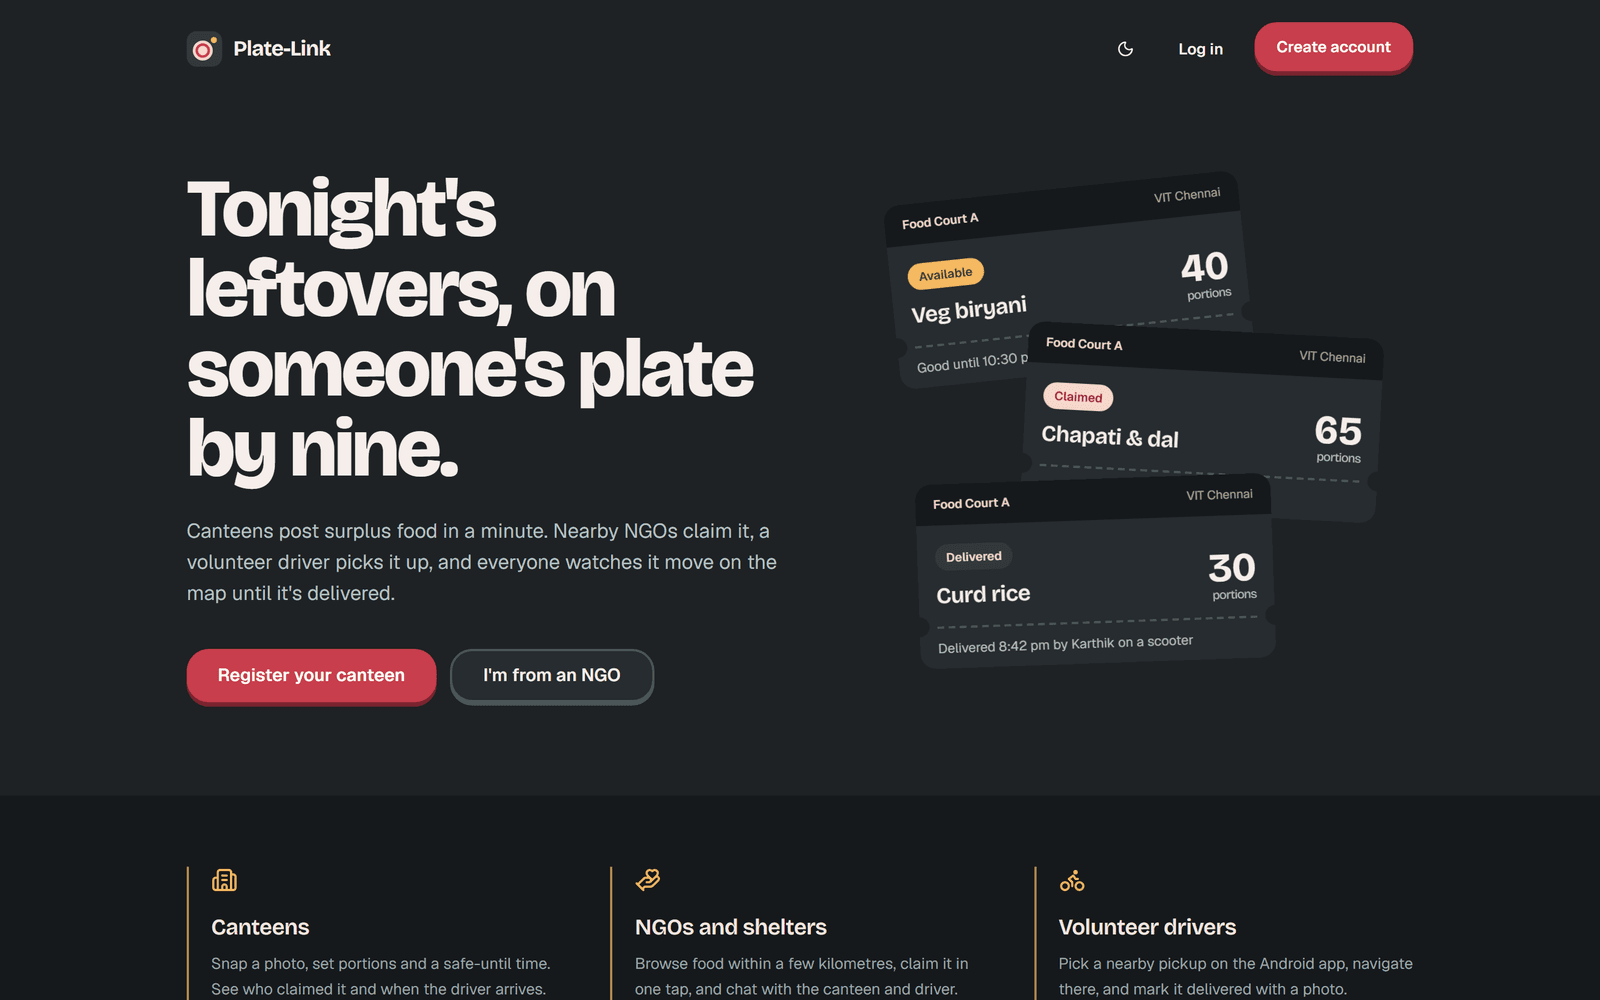
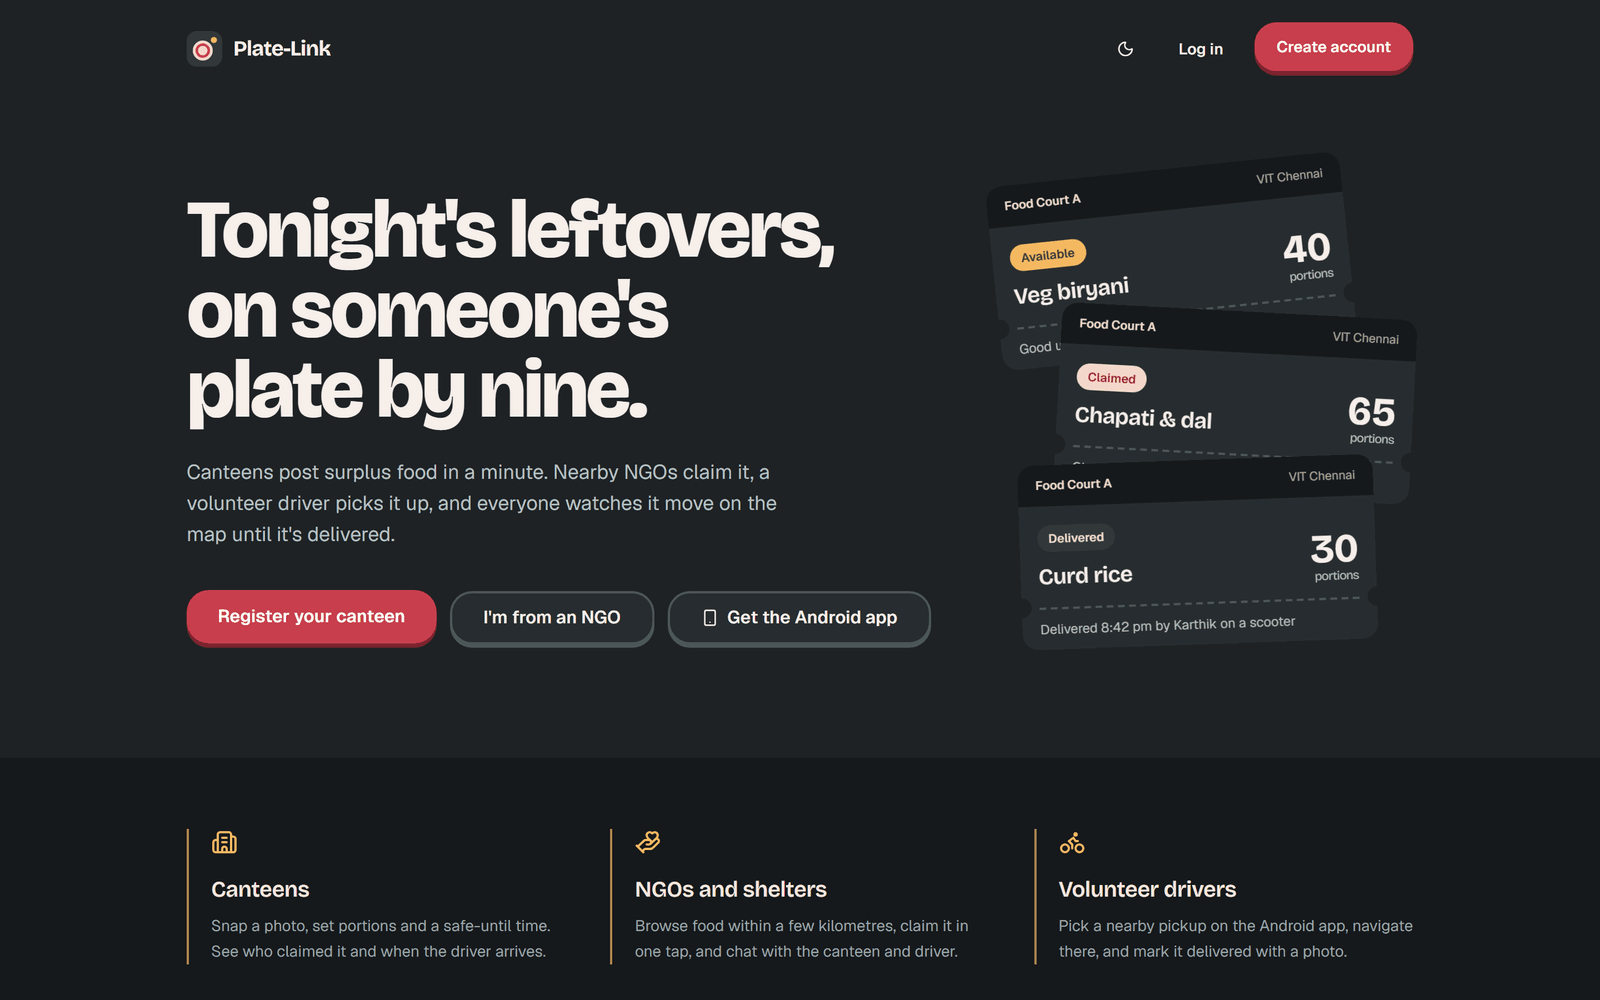
docs: add verified production screenshots and fix README image links

diff --git a/README.md b/README.md
@@ -253,7 +253,7 @@ Evaluated on **28,535 test rows** across weeks 136–145:
   <tbody>
     <tr>
       <td align="center">
-        <img src="docs/screenshots/landing.png" alt="Role Home &amp; Ticket Dashboard" width="100%" />
+        <img src="docs/screenshots/canteen-home.png" alt="Role Home &amp; Ticket Dashboard" width="100%" />
       </td>
       <td align="center">
         <img src="docs/screenshots/feed-map.png" alt="Recipient Feed &amp; MapLibre Map" width="100%" />
